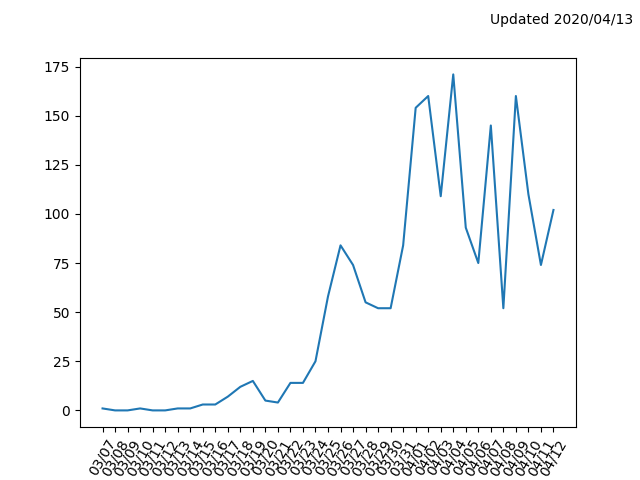
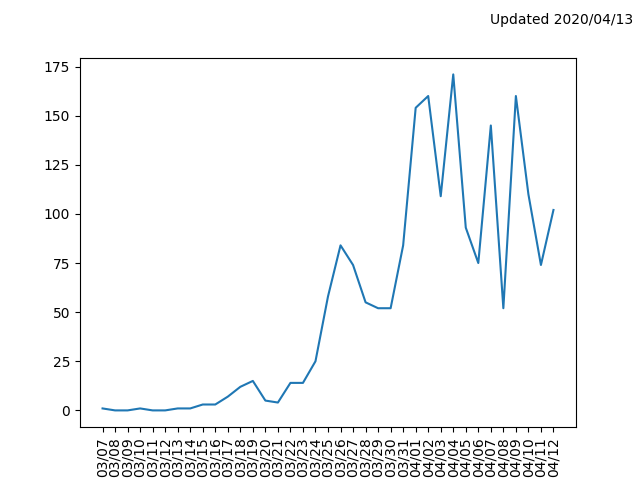
Daily image update.

Changed region(s): [[0.125, 0.9062, 0.875, 1.0]]

diff --git a/covid19timeline.py b/covid19timeline.py
@@ -39,7 +39,7 @@ fig = plt.figure()
 
 # Build actual plot.
 
-plt.xticks(rotation=60)
+plt.xticks(rotation=90)
 updatedtime = 'Updated ' + datetime.now().strftime('%Y/%m/%d')
 plt.figtext(0.99, 0.95, updatedtime, horizontalalignment='right')
 plt.plot(dates, caseCountPerDay)
